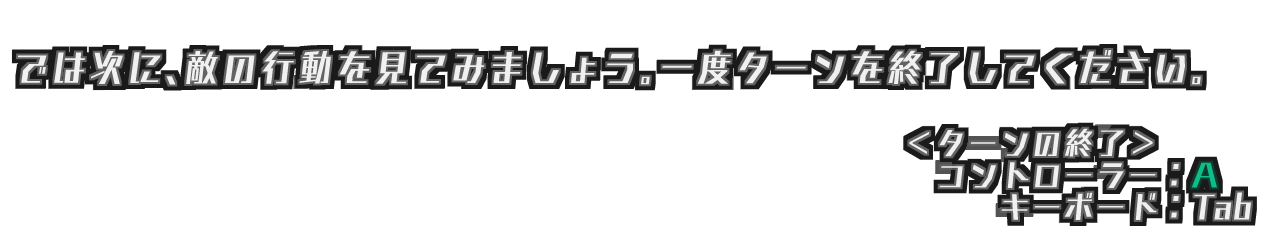
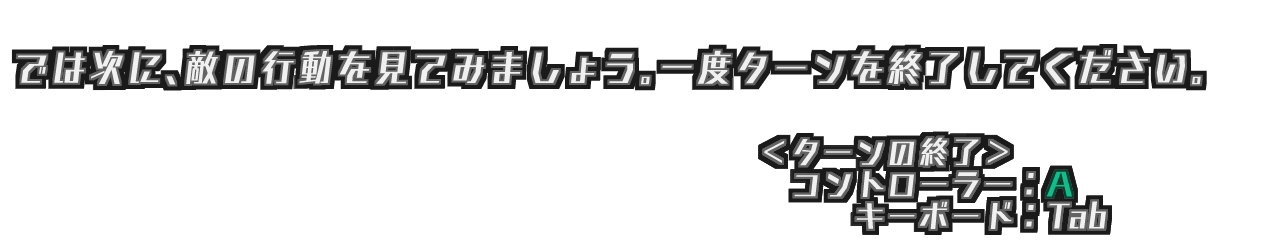
push

Changed region(s): [[0.5938, 0.4779, 1.0, 0.9558]]

diff --git a/Naraberu_10days/Game/src/Scene/BattleScene.cpp b/Naraberu_10days/Game/src/Scene/BattleScene.cpp
@@ -59,6 +59,8 @@ void BattleScene::OnInitialize()
 
 	m_Already_Selected = false;
 
+	ExistUnits::Instance()->m_MaxBonusCount = 0;
+
 	Pl = std::make_shared<Player>();
 	Pl->OnInitialize();
 	Pl->StartTurn();
@@ -556,16 +558,16 @@ void BattleScene::GameClearDraw()
 	}
 
 	Value = Vec2(0.0f, ResultEasing(((ResultTimer - SubFrame * 3.0f) / ResultTimer_Max))) * 450.0f;
-	DrawFunc2D_Mask::DrawGraph(Vec2(484.0f, 296.0f) + Value, m_TotalBonusTex, Panel_LT, Panel_RB);
+	DrawFunc2D_Mask::DrawGraph(Vec2(473.0f, 293.0f) + Value, m_TotalBonusTex, Panel_LT, Panel_RB);
 	if (ResultTimer >= ResultTimer_Max + 60 * RefreshRate::RefreshRate_Mag) {
-		//DrawFunc2D::DrawNumber2D(ExistUnits::Instance()->, Vec2(697.0f, 296.0f) + Value, &m_ClearNumberTex.front());
+		DrawFunc2D::DrawNumber2D(stage->GetTotalBonus(), Vec2(697.0f, 293.0f) + Value, &m_ClearNumberTex.front());
 	}
 
 
 	Value = Vec2(0.0f, ResultEasing(((ResultTimer - SubFrame * 4.0f) / ResultTimer_Max))) * 450.0f;
-	DrawFunc2D_Mask::DrawGraph(Vec2(489.0f, 328.0f) + Value, m_TotalTurnTex, Panel_LT, Panel_RB);
+	DrawFunc2D_Mask::DrawGraph(Vec2(489.0f, 329.0f) + Value, m_TotalTurnTex, Panel_LT, Panel_RB);
 	if (ResultTimer >= ResultTimer_Max + 90 * RefreshRate::RefreshRate_Mag) {
-		DrawFunc2D::DrawNumber2D(Mgr.GetTotalTurn(), Vec2(697.0f, 328.0f) + Value, &m_ClearNumberTex.front());
+		DrawFunc2D::DrawNumber2D(Mgr.GetTotalTurn(), Vec2(697.0f, 329.0f) + Value, &m_ClearNumberTex.front());
 	}
 
 	Value = Vec2(0.0f, ResultEasing(((ResultTimer - SubFrame * 5.0f) / ResultTimer_Max))) * 450.0f;
@@ -846,6 +848,8 @@ void BattleScene::TutorialUpdate()
 			}
 			else if (m_NowTutorial_Step == 33) {
 				// 実践
+				// アルティメットを上げる
+				GetUnitPtr_nama<Player*>(ExistUnits::Instance()->m_pPlayer)->AddUltPoint(1000);
 				m_Tutorial_Pause[m_NowTutorial_Step] = false;
 				m_Tutorial_Jissen_Text_Timer = 0;
 				m_Tutorial_None_Ctrl_Timer = int(900.0f * RefreshRate::RefreshRate_Mag);
@@ -1264,6 +1268,15 @@ void BattleScene::TutorialDraw()
 		}
 		else {
 			DrawFunc2D::DrawGraph(Vec2(0.0f, WinSize.y - 249.0f) + Vec2(0.0f, Move_Y + TextMoveY), Tutorial_Tex[m_NowTutorial_Step]);
+		}
+
+		if (1) {
+			if (OperationConfig::Instance()->GetLatestDevice() == OperationConfig::Instance()->KEY_BOARD_MOUSE) {
+				DrawFunc2D::DrawGraph(Vec2(1197.0f, 648.0f) + Vec2(0.0f, Move_Y + TextMoveY), m_Done_KeyTex_Clear);
+			}
+			else {
+				DrawFunc2D::DrawGraph(Vec2(1197.0f, 648.0f) + Vec2(0.0f, Move_Y + TextMoveY), m_Done_ControllerTex_Clear);
+			}
 		}
 		//else {
 		//	DrawFunc2D::DrawExtendGraph2D(Vec2(0.0f, WinSize.y - 249.0f) + Vec2(0.0f, Move_Y), Vec2(WinSize.x, WinSize.y) + Vec2(0.0f, Move_Y), Tutorial_Back_Tex);

diff --git a/Naraberu_10days/Game/src/Stage/StageList.h b/Naraberu_10days/Game/src/Stage/StageList.h
@@ -73,15 +73,15 @@ namespace Stages {
 			using namespace EnemysData;
 			m_Data.emplace_back(StageData("Tutorial"));
 			m_Data.back().AddWave(Inu_Tutorial_1, Inu_Tutorial_1);
-			m_Data.back().AddWave(Inu_Tutorial_2, Inu_Tutorial_2);
+			m_Data.back().AddWave(Inu_Tutorial_3, Inu_Tutorial_3);
 
 			m_Data.emplace_back(StageData("Stage1"));
-			m_Data.back().AddWave(Token_0, DebugEnemy_Boss_1);//
+			//m_Data.back().AddWave(Token_0, DebugEnemy_Boss_1);//
 			m_Data.back().AddWave(Lizard_Blue_1, Lizard_Blue_1);
 			m_Data.back().AddWave(Lizard_Blue_1, Inu_Blue_1);
 			m_Data.back().AddWave(Zako_Blue_1, Inu_Yellow_1, Zako_Blue_1);
 			m_Data.emplace_back(StageData("Stage2"));
-			m_Data.back().AddWave(Lizard_Blue_1, Lizard_Blue_1, Lizard_Blue_1);//
+			//m_Data.back().AddWave(Lizard_Blue_1, Lizard_Blue_1, Lizard_Blue_1);//
 			m_Data.back().AddWave(Inu_Blue_1, Lizard_Blue_1, Inu_Blue_1);
 			m_Data.back().AddWave(Inu_Blue_1, Lizard_Yellow_1, Inu_Blue_1);
 			m_Data.back().AddWave(Zako_Blue_1, Lizard_Red_1, Zako_Blue_1);

diff --git a/Naraberu_10days/Game/src/BattleManager/Enemy/EnemysData.h b/Naraberu_10days/Game/src/BattleManager/Enemy/EnemysData.h
@@ -166,6 +166,7 @@ namespace EnemysData {
 
 	static const EnemyData Inu_Tutorial_1 =		EnemyData("inu_blue", ENEMY_TAG::DEFAULT, 16, 5, 0, 0, AI_TYPE::TUTORIAL, "Attack_01", "Attack_01", "Attack_01");
 	static const EnemyData Inu_Tutorial_2 =		EnemyData("inu_blue", ENEMY_TAG::DEFAULT, 32, 5, 0, 0, AI_TYPE::TUTORIAL, "Attack_01", "Attack_01", "Attack_01");
+	static const EnemyData Inu_Tutorial_3 =		EnemyData("inu_blue", ENEMY_TAG::DEFAULT, 48, 5, 0, 0, AI_TYPE::TUTORIAL, "Attack_01", "Attack_01", "Attack_01");
 
 	static const EnemyData Inu_Blue_1 =			EnemyData("inu_blue", ENEMY_TAG::DEFAULT, 48, 15, 20, 0, AI_TYPE::DEFAULT, "Attack_01", "Heal_01", "Heal_01");
 	static const EnemyData Inu_Yellow_1 =		EnemyData("inu_yellow", ENEMY_TAG::DEFAULT, 64, 15, 20, 0, AI_TYPE::DEFAULT, "Attack_01", "Heal_01", "Heal_01");
